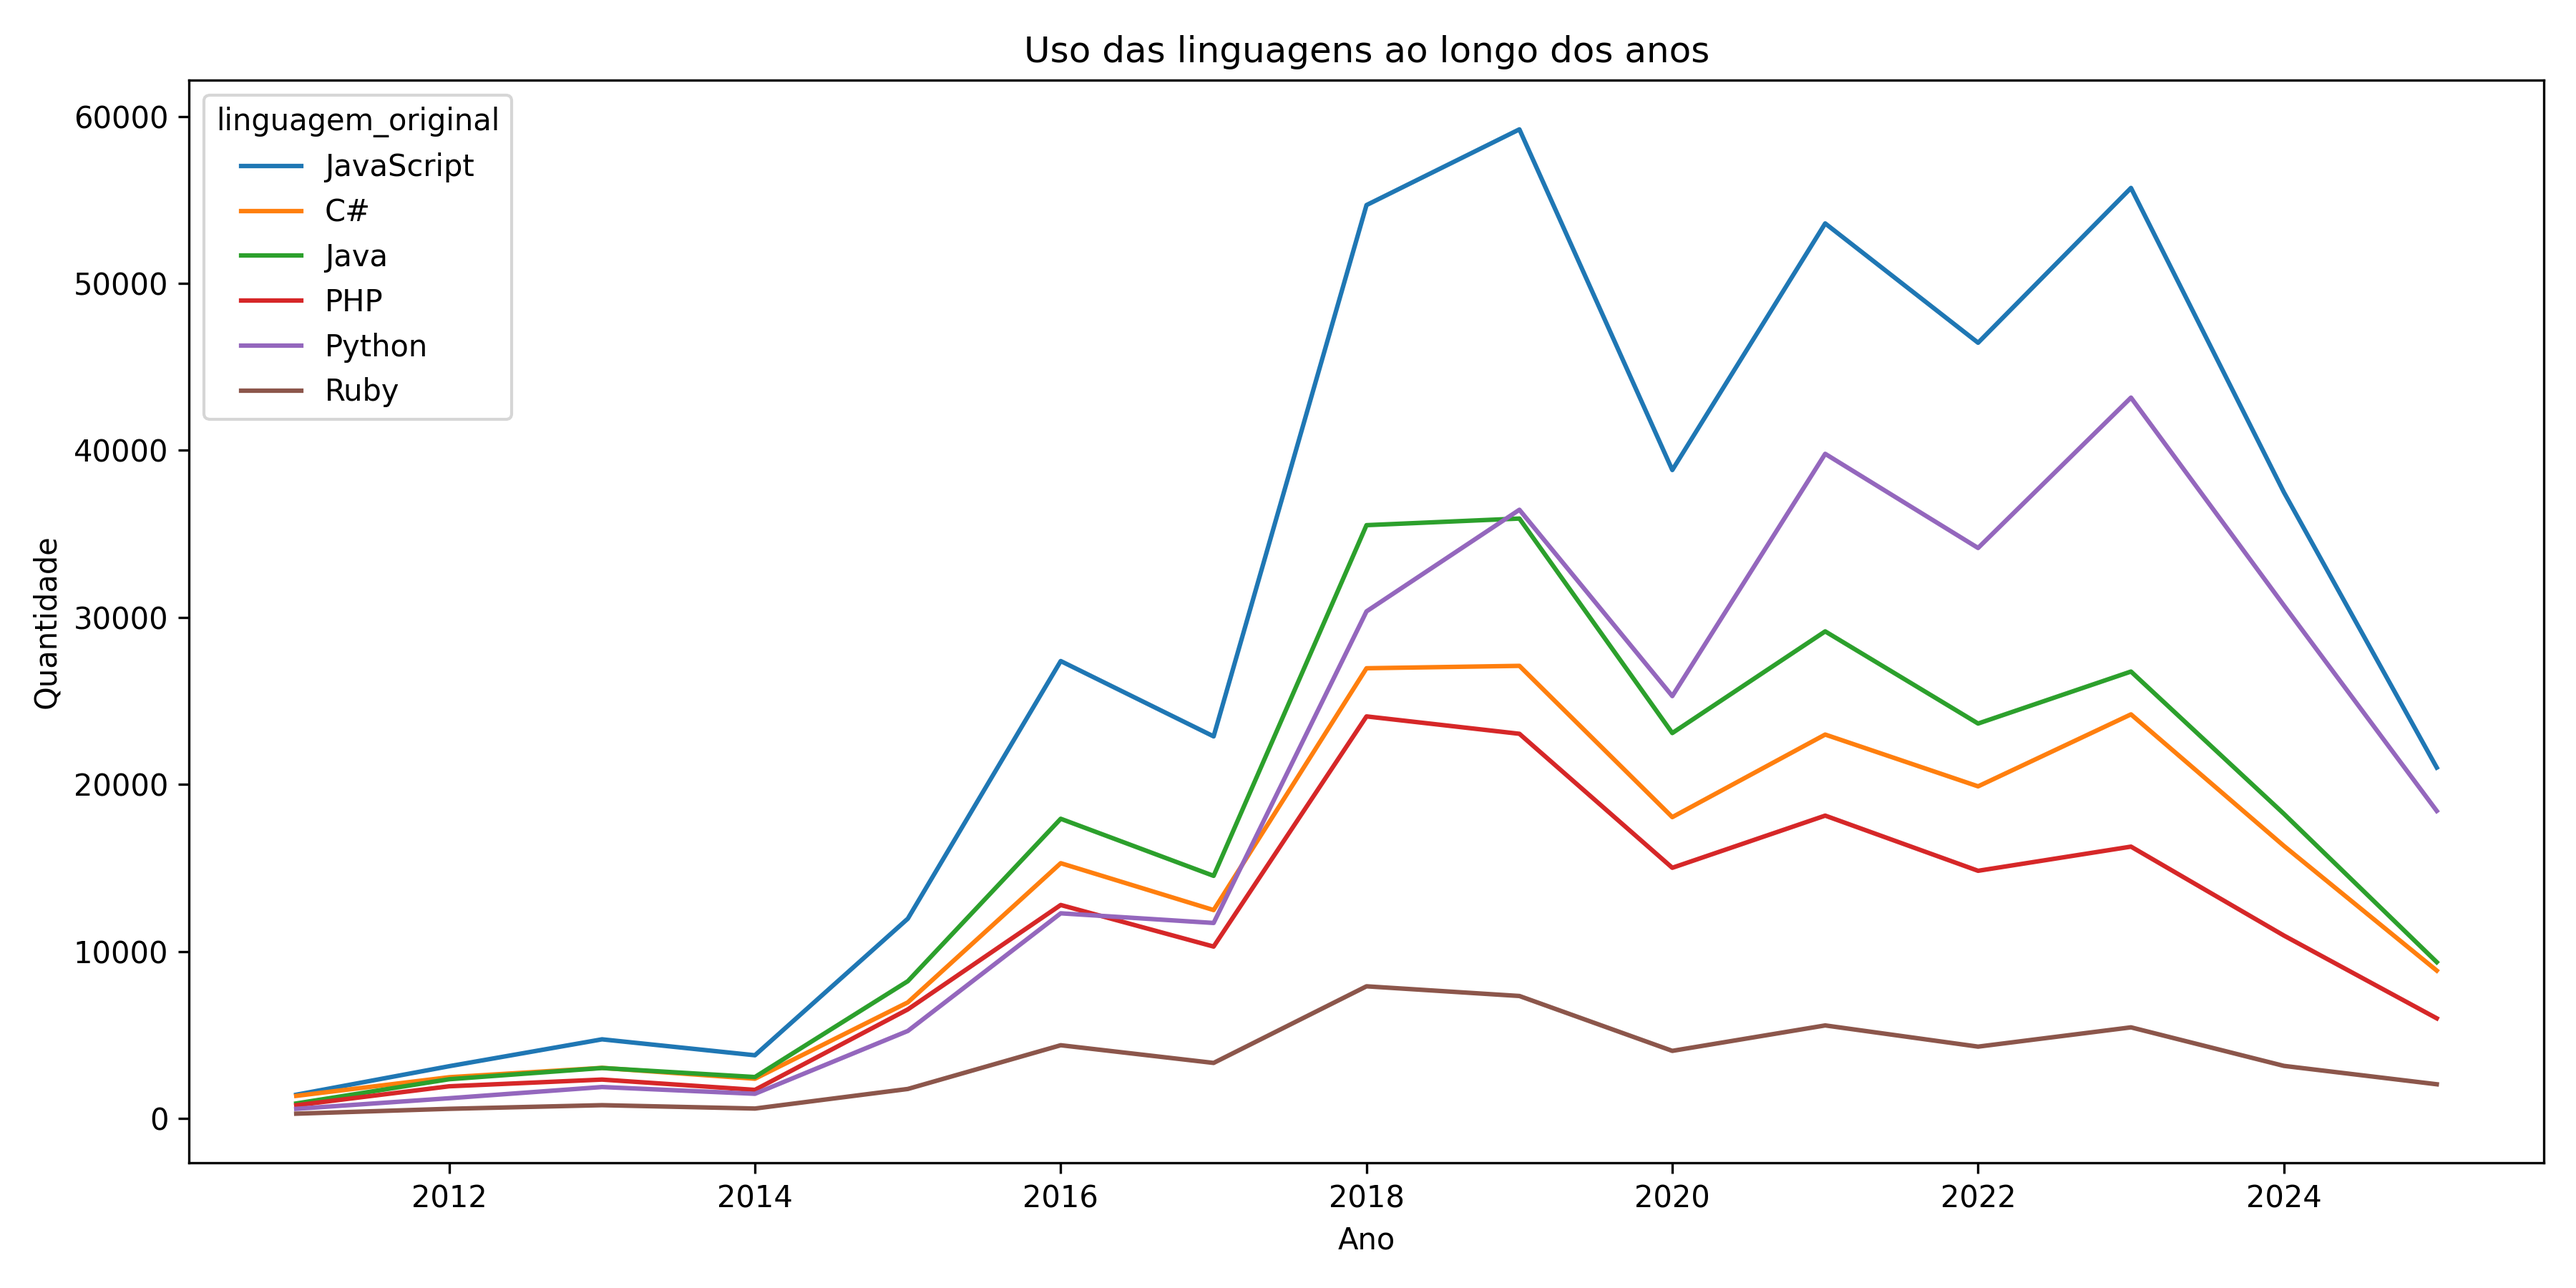
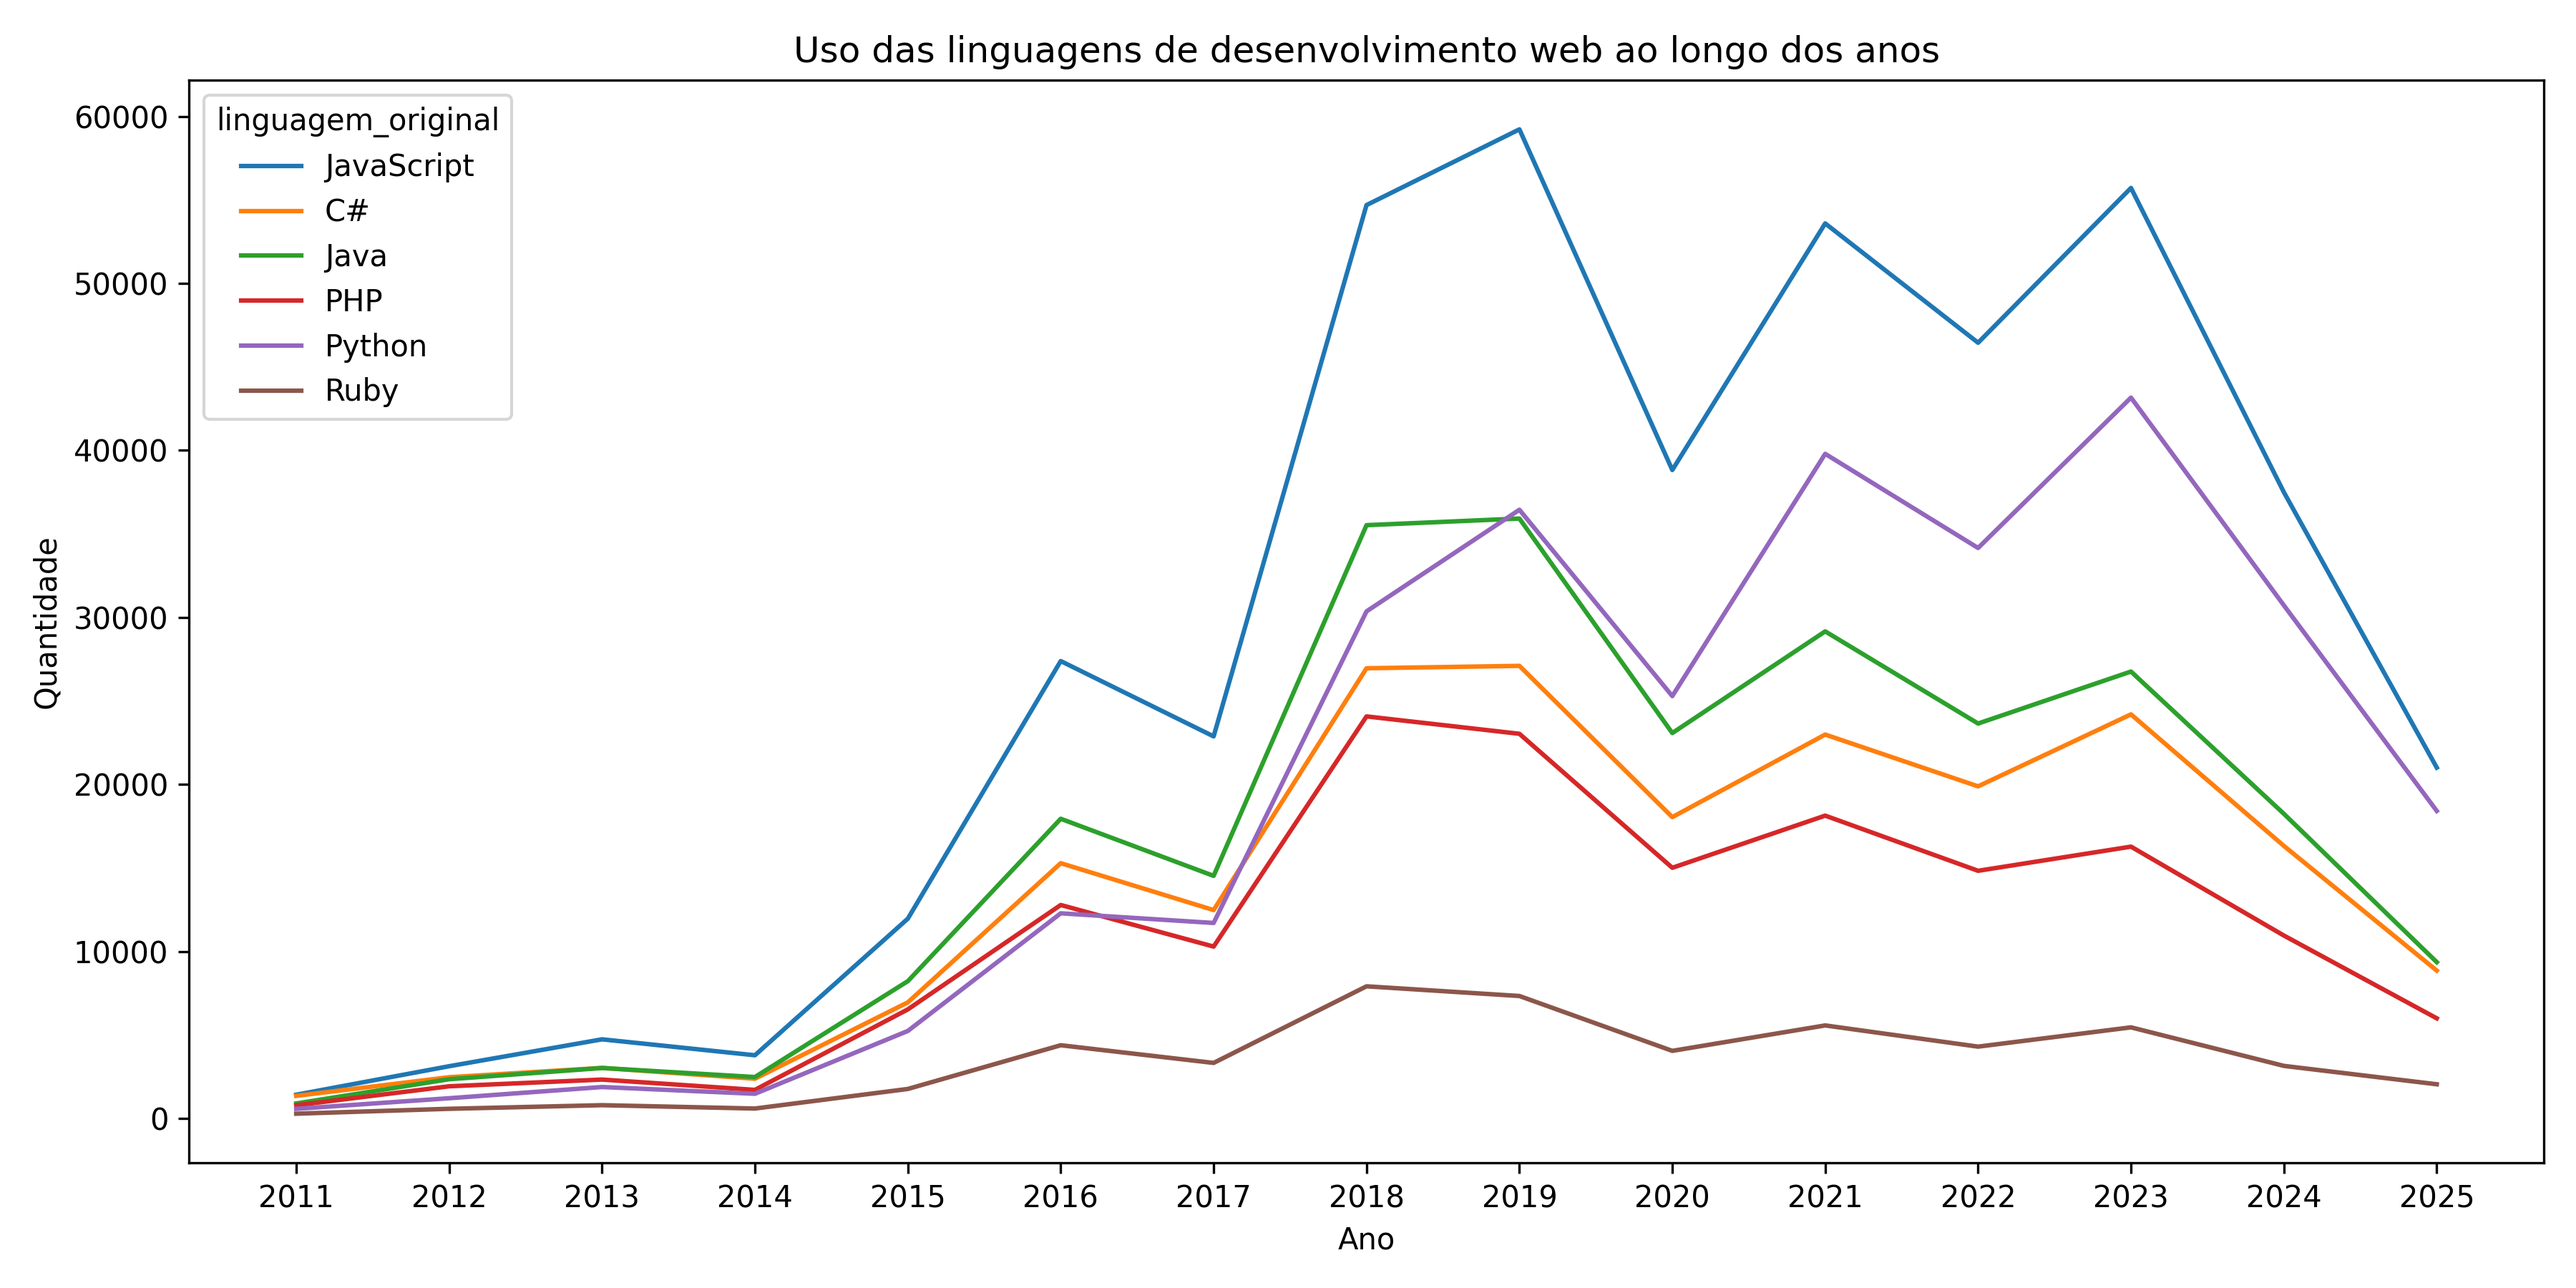
Todos os anos aparecem no eixo x

diff --git a/main.py b/main.py
@@ -86,8 +86,9 @@ def lineplot():
     y='quantidade',
     hue='linguagem_original'
   )
+  plt.xticks(geral["ano"].unique())
 
-  plt.title('Uso das linguagens ao longo dos anos')
+  plt.title('Uso das linguagens de desenvolvimento web ao longo dos anos')
   plt.xlabel('Ano')
   plt.ylabel('Quantidade')
   plt.tight_layout()
